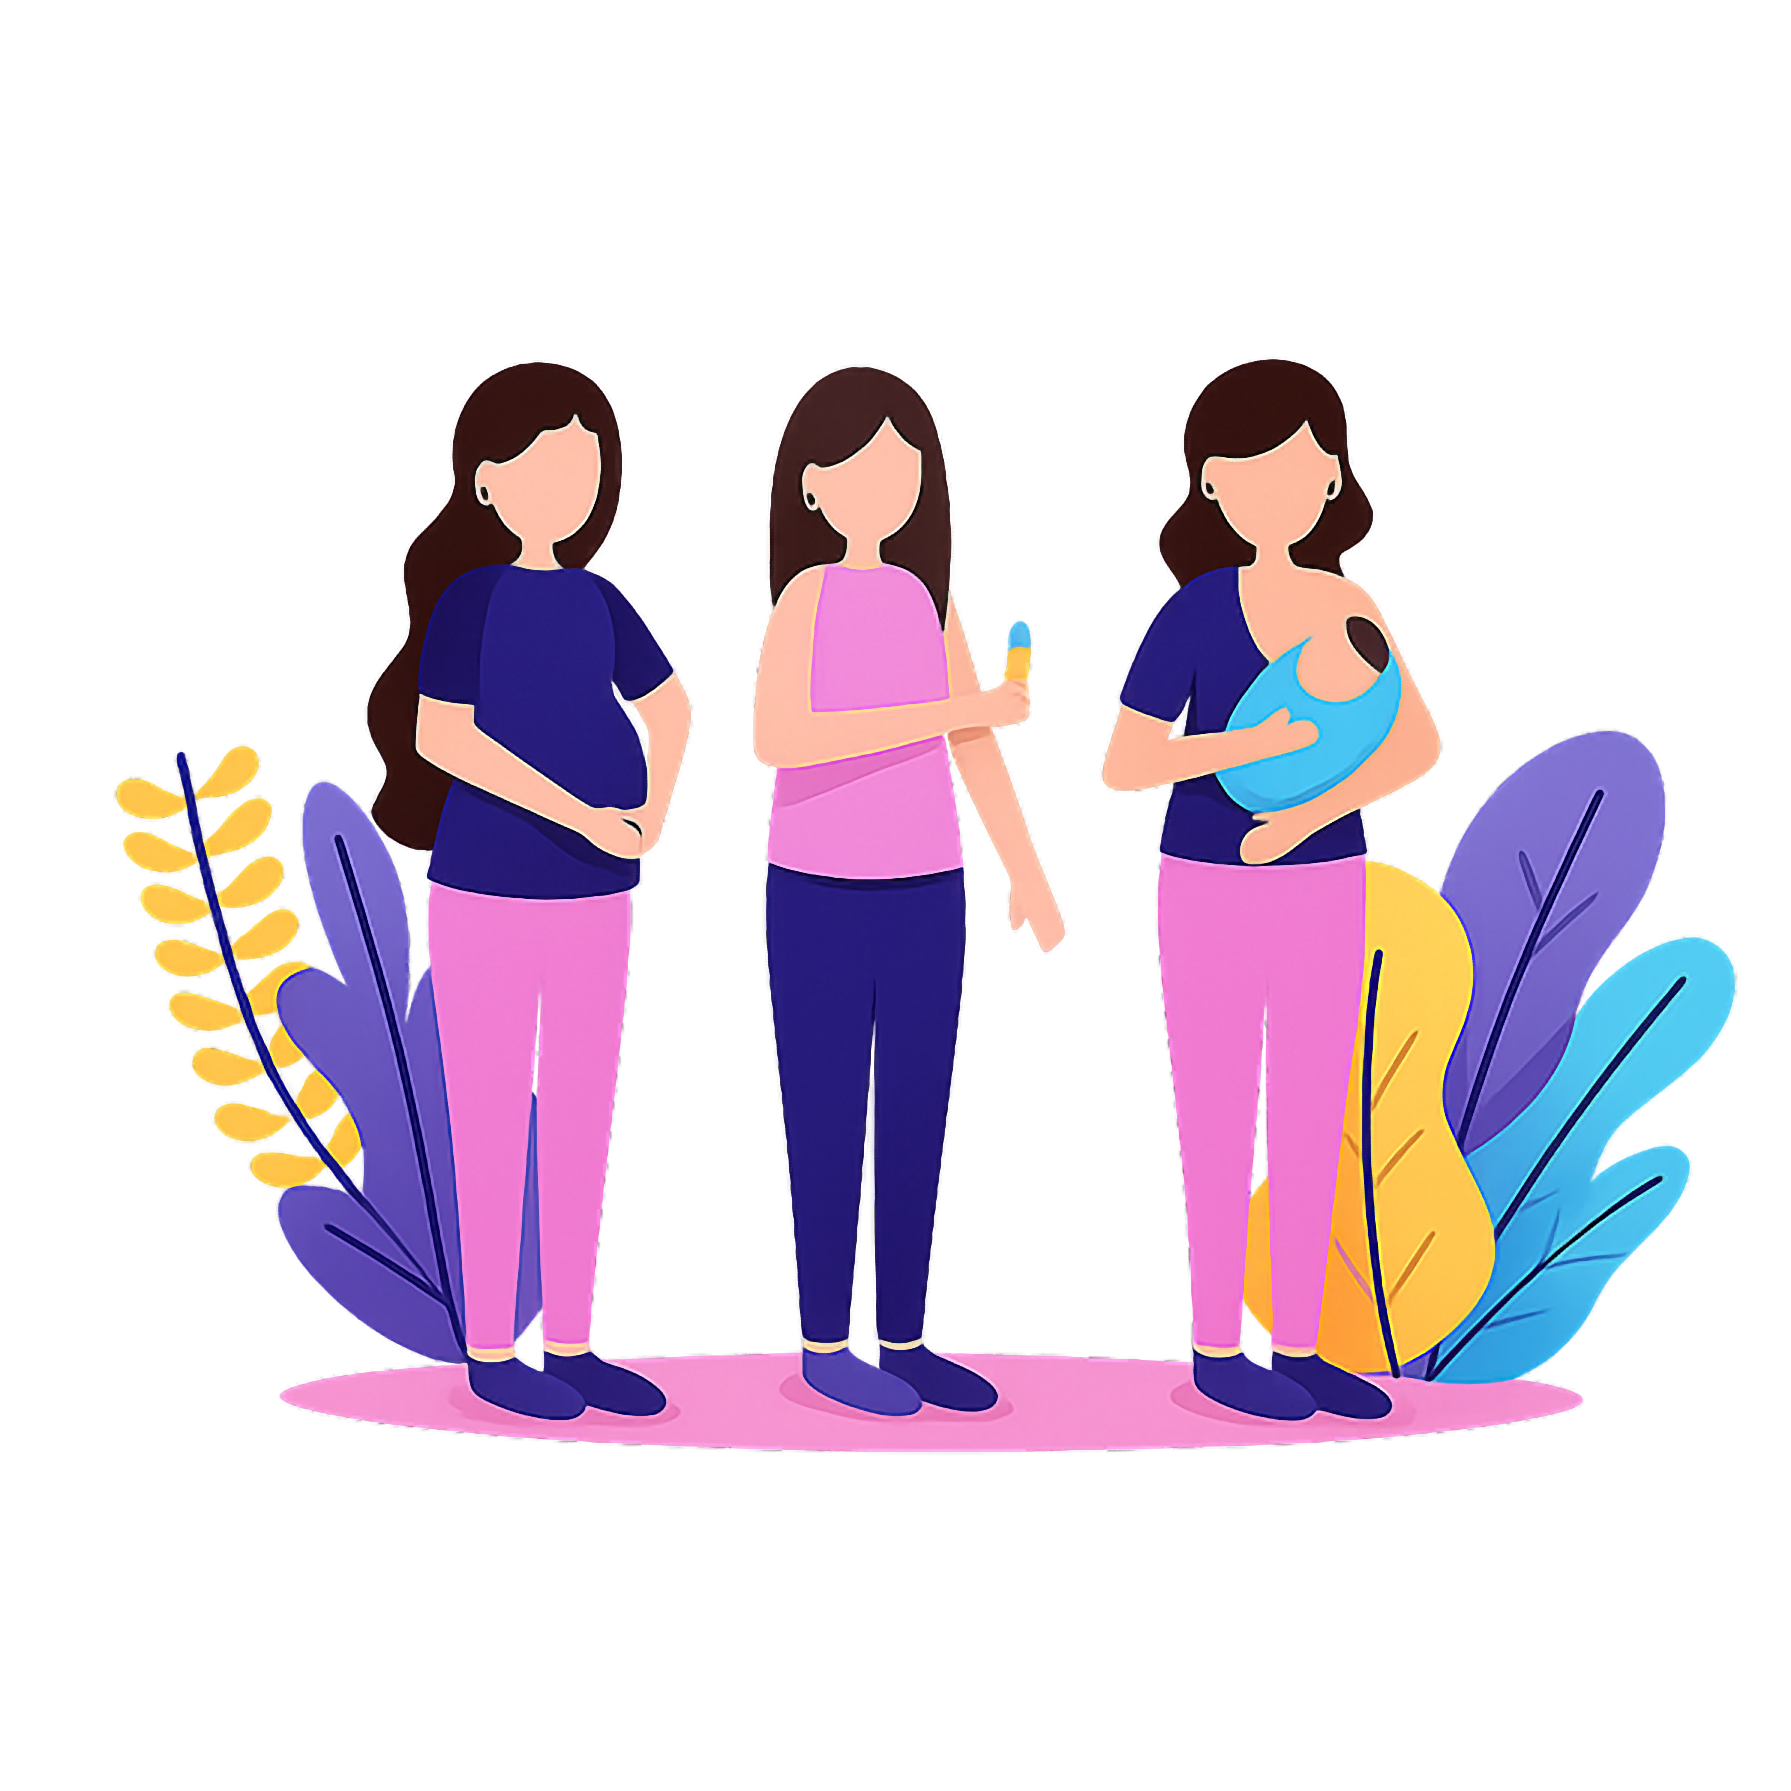
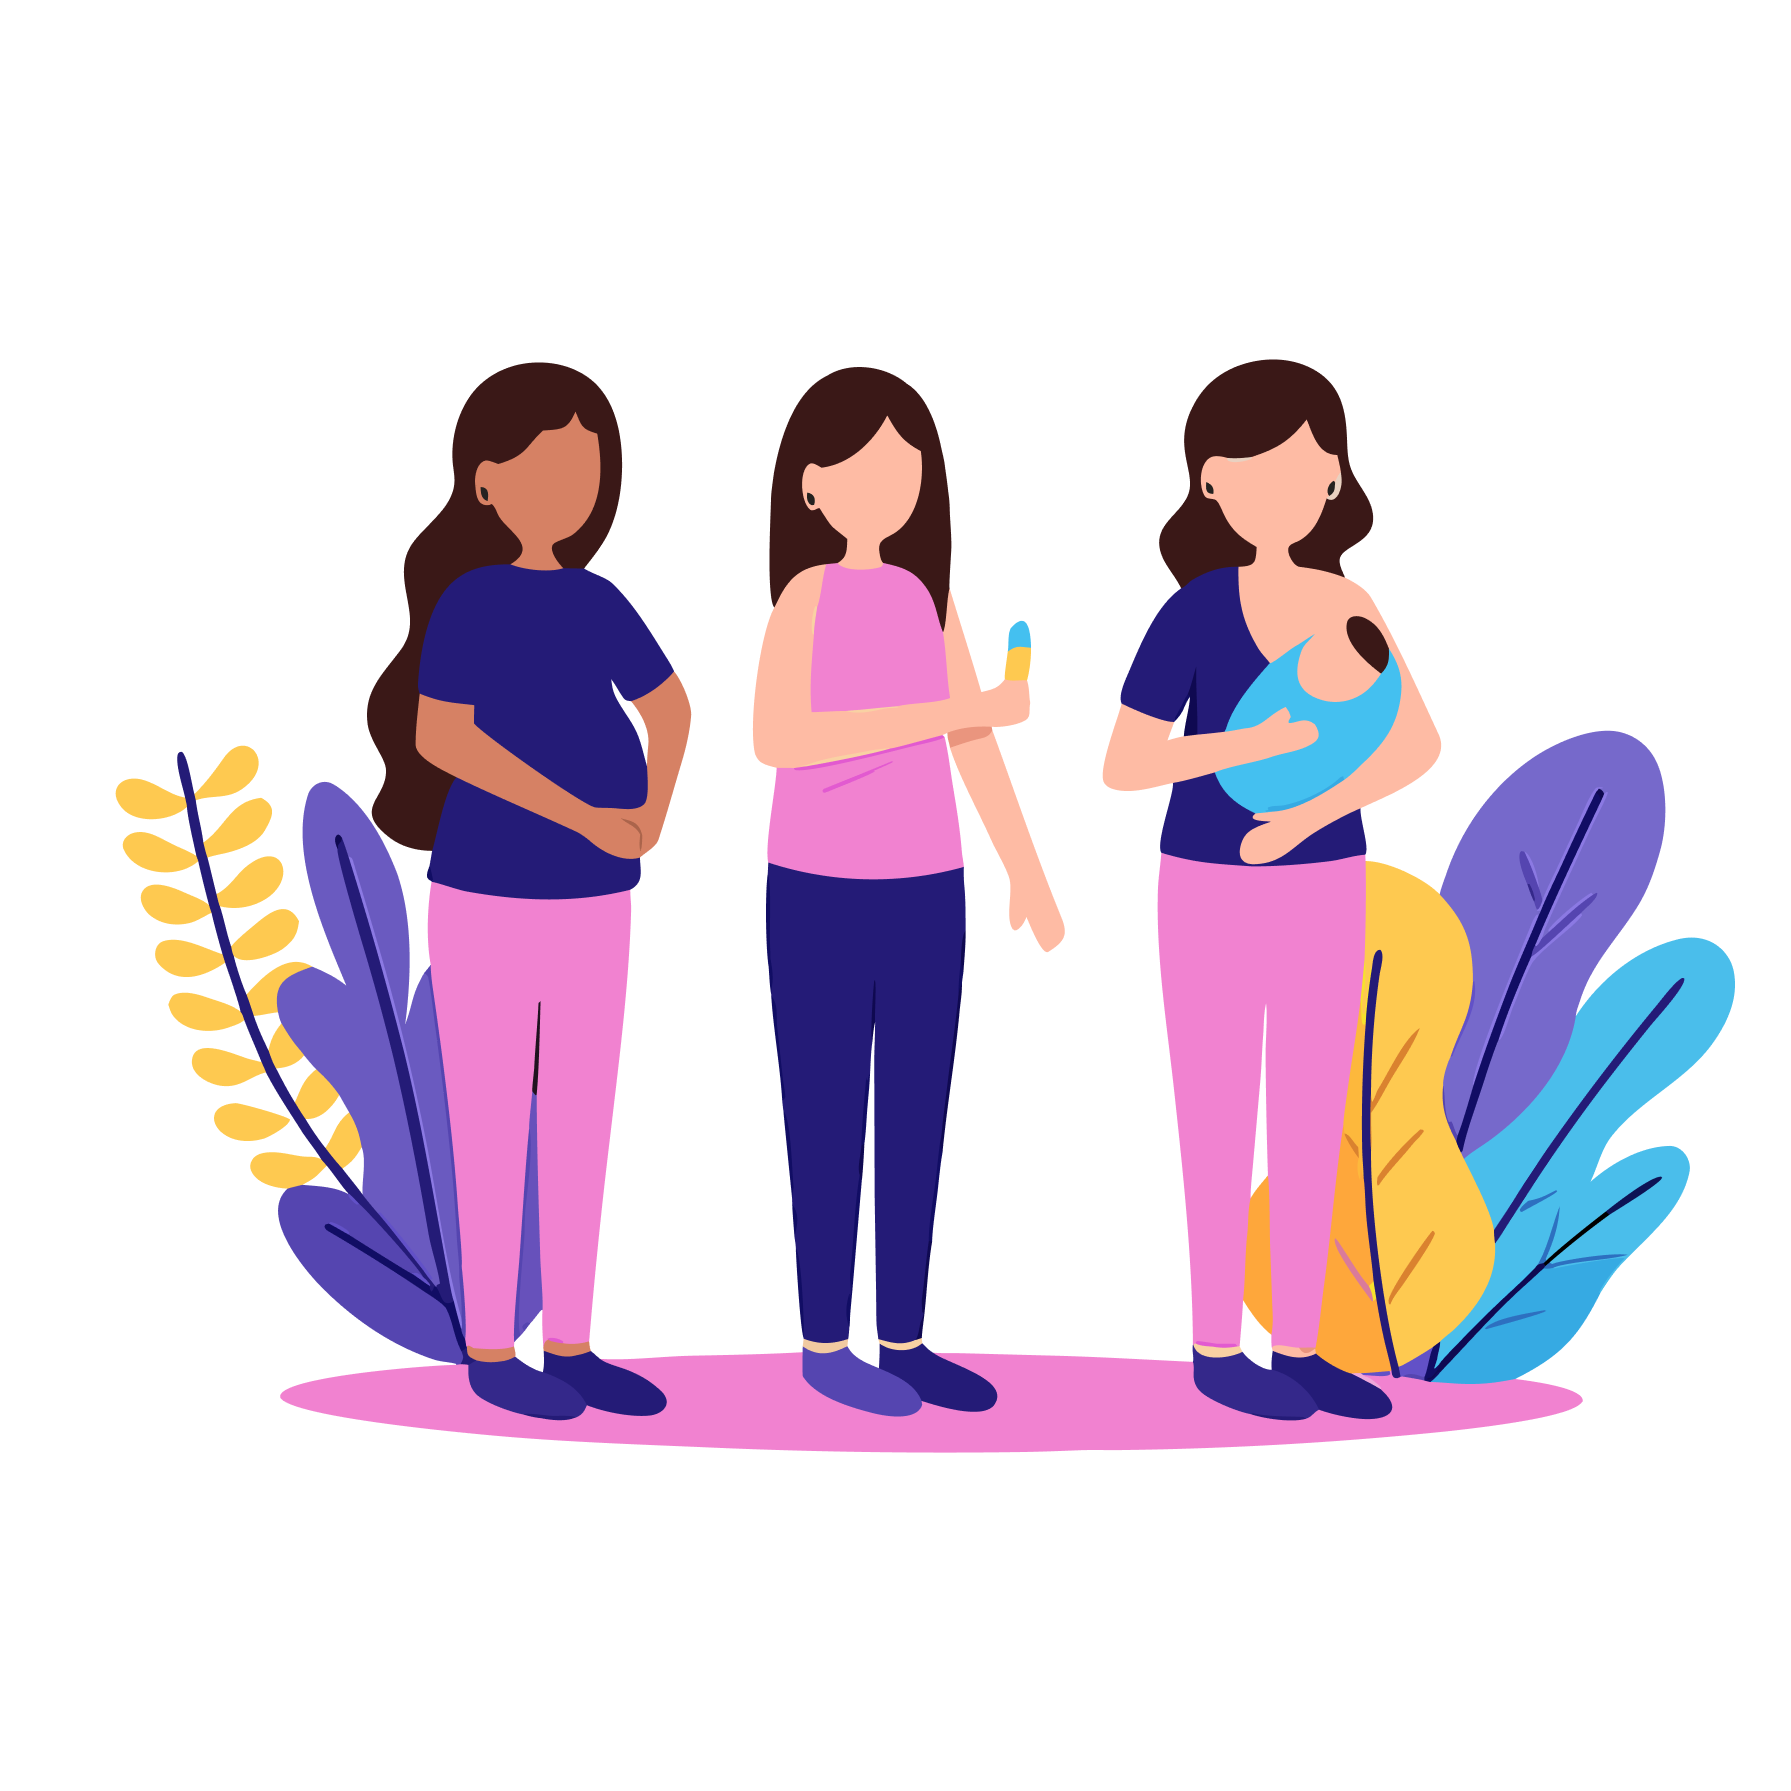
V0.9

diff --git a/myrtille raverdy/index.html b/myrtille raverdy/index.html
@@ -6,18 +6,19 @@
   <title>Myrtille Raverdy — Sage-femme à Lausanne</title>
   <link rel="stylesheet" href="assets/css/style.css" />
   <link rel="stylesheet" href="assets/css/home.css" />
+  <link rel="icon" type="image/png" href="assets/images/logo-colibri-dark.png" />
 </head>
 <body>
 
 <nav class="navbar">
-  <a href="index.html" class="nav-brand">Myrtille Raverdy</a>
+  <a href="index.html" class="nav-brand"><img src="assets/images/logo-colibri-white.png" alt="" class="nav-brand__logo" />Myrtille Raverdy</a>
   <a href="contact.html" class="btn btn-outline">Contact</a>
 </nav>
 
 <section class="hero">
   <div class="hero__content">
     <h1 class="hero__title">
-      Accompagnement bienveillant à Lausanne, de la grossesse au post-partum.
+      Accompagnement bienveillant à Lusanne, de la grossesse au post-partum.
     </h1>
     <p class="hero__subtitle">
       Je vous accompagne avec attention, présence et compétence, pour vous permettre d'avancer en confiance, avec sérénité, et de trouver votre propre rythme.
@@ -56,10 +57,19 @@
   </section>
 
   <section class="services">
-    <div class="service-block reveal">
+    <div class="service-block service-block--single reveal">
+      <img src="assets/images/fleche-suivi.png" alt="" class="deco-arrow-pre" />
       <div class="service-block__text">
         <h3>Prestations</h3>
-        <h2>Suivi préconcéptionnel</h2>
+        <h2>Suivi préconceptionnel</h2>
+        <p>
+          J'accompagne les femmes et les couples en période préconceptionnelle, notamment lorsqu'une grossesse tarde à venir.
+        </p>
+        <p>
+          Mon approche vise à préparer le terrain à la conception en travaillant sur l'alimentation, l'hygiène de vie, l'équilibre global et les éventuelles carences, afin de favoriser des conditions propices à une future grossesse.
+        </p>
+
+        <h2>Suivi pré natal</h2>
         <p>
           Chaque consultation est un temps d'échange, pour suivre l'évolution de votre grossesse, répondre à vos questions et vous aider à vivre cette période avec plus de sérénité.
         </p>
@@ -103,14 +113,35 @@
       </div>
     </div>
   </section>
+
+  <section class="two-columns reveal">
+    <div class="two-columns__col">
+      <h2>La psychophonie</h2>
+      <p>
+        "Naitre en chantant" est une préparation à la naissance basée sur le chant, la respiration et les vibrations de la voix, favorisant la connexion avec son bébé et la confiance en soi pour donner naissance.
+      </p>
+    </div>
+    <div class="two-columns__col">
+      <h2>LineQuartz®</h2>
+      <p>
+        Appareil de bio-résonance utilisé pour favoriser l'équilibre global de l'organisme. Il associe la luminothérapie, la chromothérapie, la musicothérapie et la lithothérapie (quartz) pour favoriser détente et équilibre. Aussi bien en prénatal qu'après la naissance cette technologie innovante est un véritable atout.
+
+      </p>
+      <p>
+        Site internet du fabriquant :
+        <a href="https://www.linequartz.com" target="_blank" rel="noopener">Acceuil | LineQuartz</a>.
+      </p>
+
+    </div>
+  </section>
 </div>
 
 <footer class="footer">
   <div class="footer__left">
     <p>Je vous accueille à Lausanne et dans sa région, en cabinet ou à domicile, selon vos besoins.</p>
     <p>Les consultations sont remboursées selon prescription médicale.</p>
-    <p style="margin-top: 16px;">📞Téléphone : (+41) 089 52 384</p>
-    <p>✉Email : myrtille.raverdy@gmail.com</p>
+    <p style="margin-top: 16px;">Téléphone : (+41) 089 52 384</p>
+    <p>Email : myrtille.raverdy@gmail.com</p>
     <p>Les informations présentes sur ce site ont une valeur informative et ne remplacent pas une consultation médicale.</p>
   </div>
   <div class="footer__right">

diff --git a/myrtille raverdy/assets/css/home.css b/myrtille raverdy/assets/css/home.css
@@ -152,6 +152,26 @@
     direction: rtl;
 
 }
+.service-block--single {
+    grid-template-columns: 1fr;
+    position: relative;
+}
+.service-block--single .service-block__text {
+    max-width: 640px;
+    margin-right: auto;
+}
+.deco-arrow-pre {
+    position: absolute;
+    top: 260px;
+    left: 680px;
+    height: 120px;
+    width: auto;
+    opacity: 100%;
+    pointer-events: none;
+}
+@media (max-width: 1200px) {
+    .deco-arrow-pre { display: none; }
+}
 .service-block--reverse > * {
     direction: ltr;
 }
@@ -186,6 +206,48 @@
 .service-block__illustration img {
     max-height: 280px;
     width: auto;
+}
+
+.two-columns {
+    display: grid;
+    grid-template-columns: 1fr 1fr;
+    gap: 60px;
+    padding: 20px 80px 60px;
+}
+
+.two-columns__col h3 {
+    font-family: var(--font-display);
+    font-size: clamp(1.4rem, 2vw, 1.9rem);
+    font-weight: 600;
+    color: var(--color-dark);
+    margin-bottom: 16px;
+}
+
+.two-columns__col h2 {
+    font-family: var(--font-display);
+    font-size: clamp(1rem, 1.6vw, 1.6rem);
+    font-weight: 600;
+    color: var(--color-dark);
+    margin-bottom: 16px;
+}
+
+.two-columns__col p {
+    font-size: 0.875rem;
+    line-height: 1.85;
+    color: var(--color-text-light);
+    margin-bottom: 16px;
+}
+
+.two-columns__col a {
+    color: var(--color-primary);
+    font-weight: 600;
+    text-decoration: underline;
+    text-underline-offset: 2px;
+    transition: opacity var(--transition);
+}
+
+.two-columns__col a:hover {
+    opacity: 0.7;
 }
 
 
@@ -286,6 +348,7 @@
     .section-about { padding: 32px 20px 48px; }
     .services      { padding: 0 20px 32px; }
     .footer        { padding: 32px 20px; }
+    .two-columns   { grid-template-columns: 1fr; gap: 32px; padding: 0 20px 40px; }
 }
 @media (max-width: 900px) {
     .hero {

diff --git a/myrtille raverdy/rendez-vous.html b/myrtille raverdy/rendez-vous.html
@@ -6,11 +6,12 @@
   <title>Rendez-vous — Myrtille Raverdy</title>
   <link rel="stylesheet" href="assets/css/style.css" />
   <link rel="stylesheet" href="assets/css/rdv.css" />
+  <link rel="icon" type="image/png" href="assets/images/logo-colibri-dark.png" />
 </head>
 <body>
 
 <nav class="navbar">
-  <a href="index.html" class="nav-brand">Myrtille Raverdy</a>
+  <a href="index.html" class="nav-brand"><img src="assets/images/logo-colibri-white.png" alt="" class="nav-brand__logo" />Myrtille Raverdy</a>
   <a href="contact.html" class="btn btn-outline">Contact</a>
   <a href="index.html" class="btn btn-outline">Accueil</a>
 </nav>
@@ -105,7 +106,7 @@
           <div class="form-group">
             <label for="input-commune">Commune de domicile</label>
             <select id="input-commune" class="form-select">
-              <option value="">— Sélectionnez —</option>
+              <option value="">- Sélectionnez -</option>
               <option value="Lausanne">Lausanne</option>
               <option value="Pully">Pully</option>
               <option value="Paudex">Paudex</option>
@@ -143,7 +144,7 @@
         <div class="form-radio-group">
           <label class="radio-label">
             <input type="radio" name="type-natal" value="prenatal" checked />
-            Néo natal
+            Pré natal
           </label>
           <label class="radio-label">
             <input type="radio" name="type-natal" value="postnatal" />

diff --git a/myrtille raverdy/mentions-legales.html b/myrtille raverdy/mentions-legales.html
@@ -6,11 +6,12 @@
   <title>Mentions légales — Myrtille Raverdy</title>
   <link rel="stylesheet" href="assets/css/style.css" />
   <link rel="stylesheet" href="assets/css/mentions-legales.css" />
+  <link rel="icon" type="image/png" href="assets/images/logo-colibri-dark.png" />
 </head>
 <body>
 
 <nav class="navbar">
-  <a href="index.html" class="nav-brand">Myrtille Raverdy</a>
+  <a href="index.html" class="nav-brand"><img src="assets/images/logo-colibri-white.png" alt="" class="nav-brand__logo" />Myrtille Raverdy</a>
   <a href="index.html" class="btn btn-outline">Accueil</a>
 </nav>
 

diff --git a/myrtille raverdy/contact.html b/myrtille raverdy/contact.html
@@ -6,11 +6,12 @@
     <title>Contact — Myrtille Raverdy</title>
     <link rel="stylesheet" href="assets/css/style.css" />
     <link rel="stylesheet" href="assets/css/contact.css" />
+  <link rel="icon" type="image/png" href="assets/images/logo-colibri-dark.png" />
 </head>
 <body>
 
 <nav class="navbar">
-    <a href="index.html" class="nav-brand">Myrtille Raverdy</a>
+    <a href="index.html" class="nav-brand"><img src="assets/images/logo-colibri-white.png" alt="" class="nav-brand__logo" />Myrtille Raverdy</a>
     <a href="index.html" class="btn btn-outline">Accueil</a>
 </nav>
 

diff --git a/myrtille raverdy/assets/css/style.css b/myrtille raverdy/assets/css/style.css
@@ -64,6 +64,9 @@ a   { text-decoration: none; color: inherit; }
 }
 
 .nav-brand {
+    display: flex;
+    align-items: center;
+    gap: 4px;
     font-family: var(--font-display);
     font-size: 1.3rem;
     font-weight: 500;
@@ -73,6 +76,11 @@ a   { text-decoration: none; color: inherit; }
     transition: opacity var(--transition);
 }
 .nav-brand:hover { opacity: 0.8; }
+.nav-brand__logo {
+    height: 32px;
+    width: auto;
+    display: block;
+}
 
 /* ============================================
    BOUTONS — Néomorphisme inset (effet bombé)

diff --git a/myrtille raverdy/assets/js/contact.js b/myrtille raverdy/assets/js/contact.js
@@ -63,7 +63,7 @@ document.addEventListener('DOMContentLoaded', () => {
 
         } catch (err) {
             console.error('Erreur envoi contact :', err);
-            alert('Une erreur est survenue. Veuillez réessayer ou nous contacter directement par email.');
+            alert('Une erreur est survenue. Veuillez réessayer ou nous contacter directement par email via myrtille.raverdy@gmail.com.');
             btnEnvoyer.disabled    = false;
             btnEnvoyer.textContent = 'Envoyer';
         }
